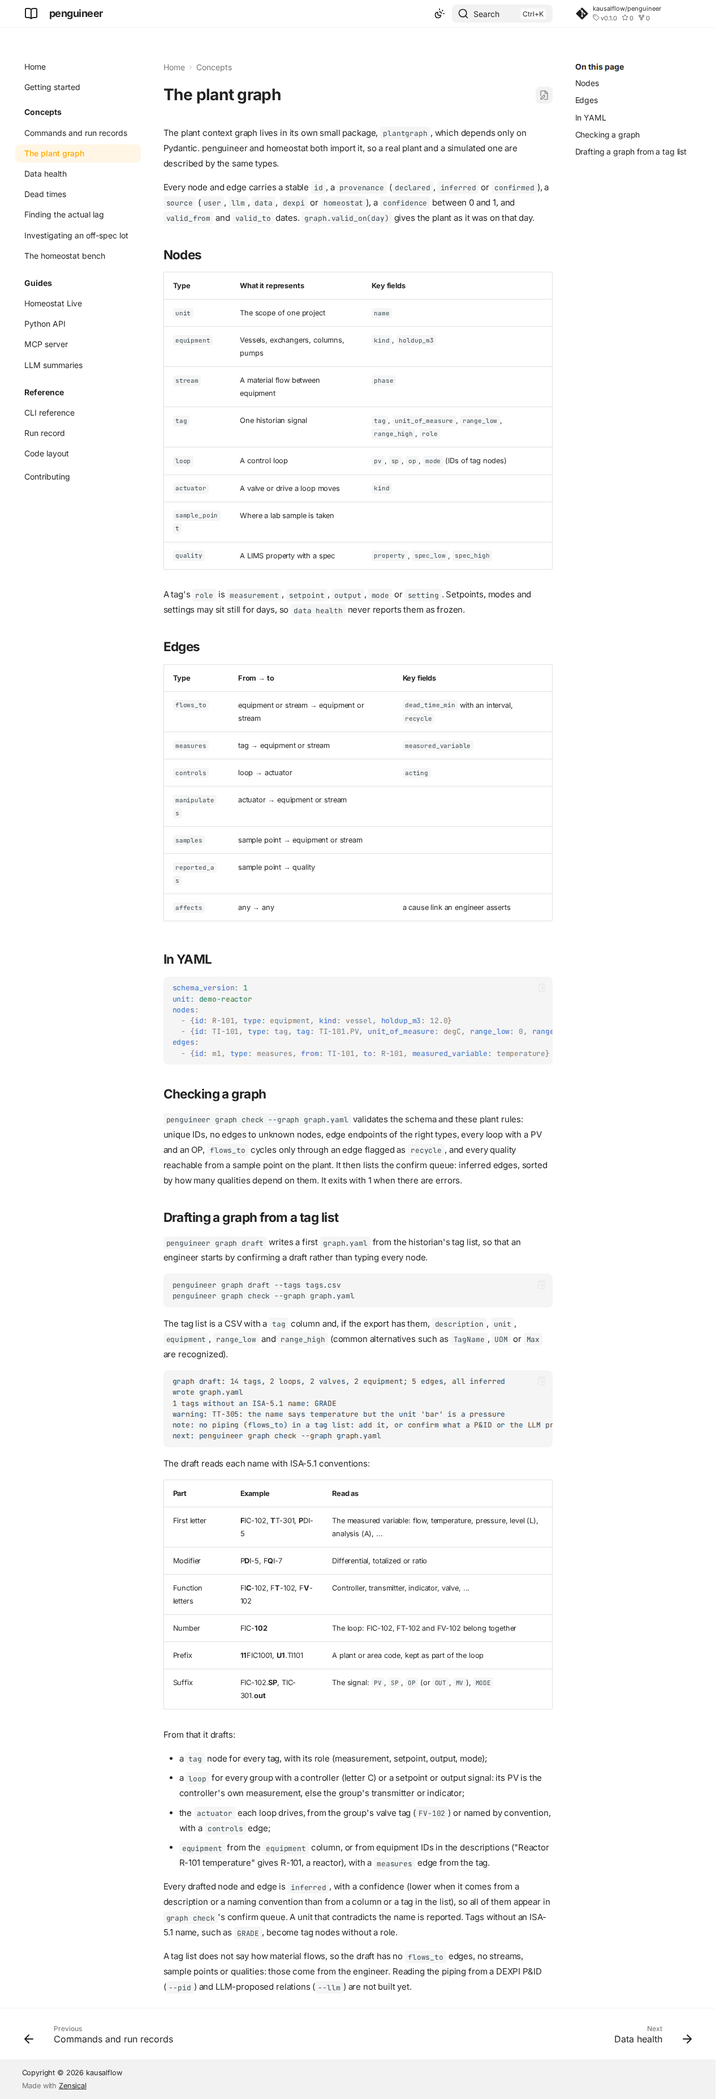
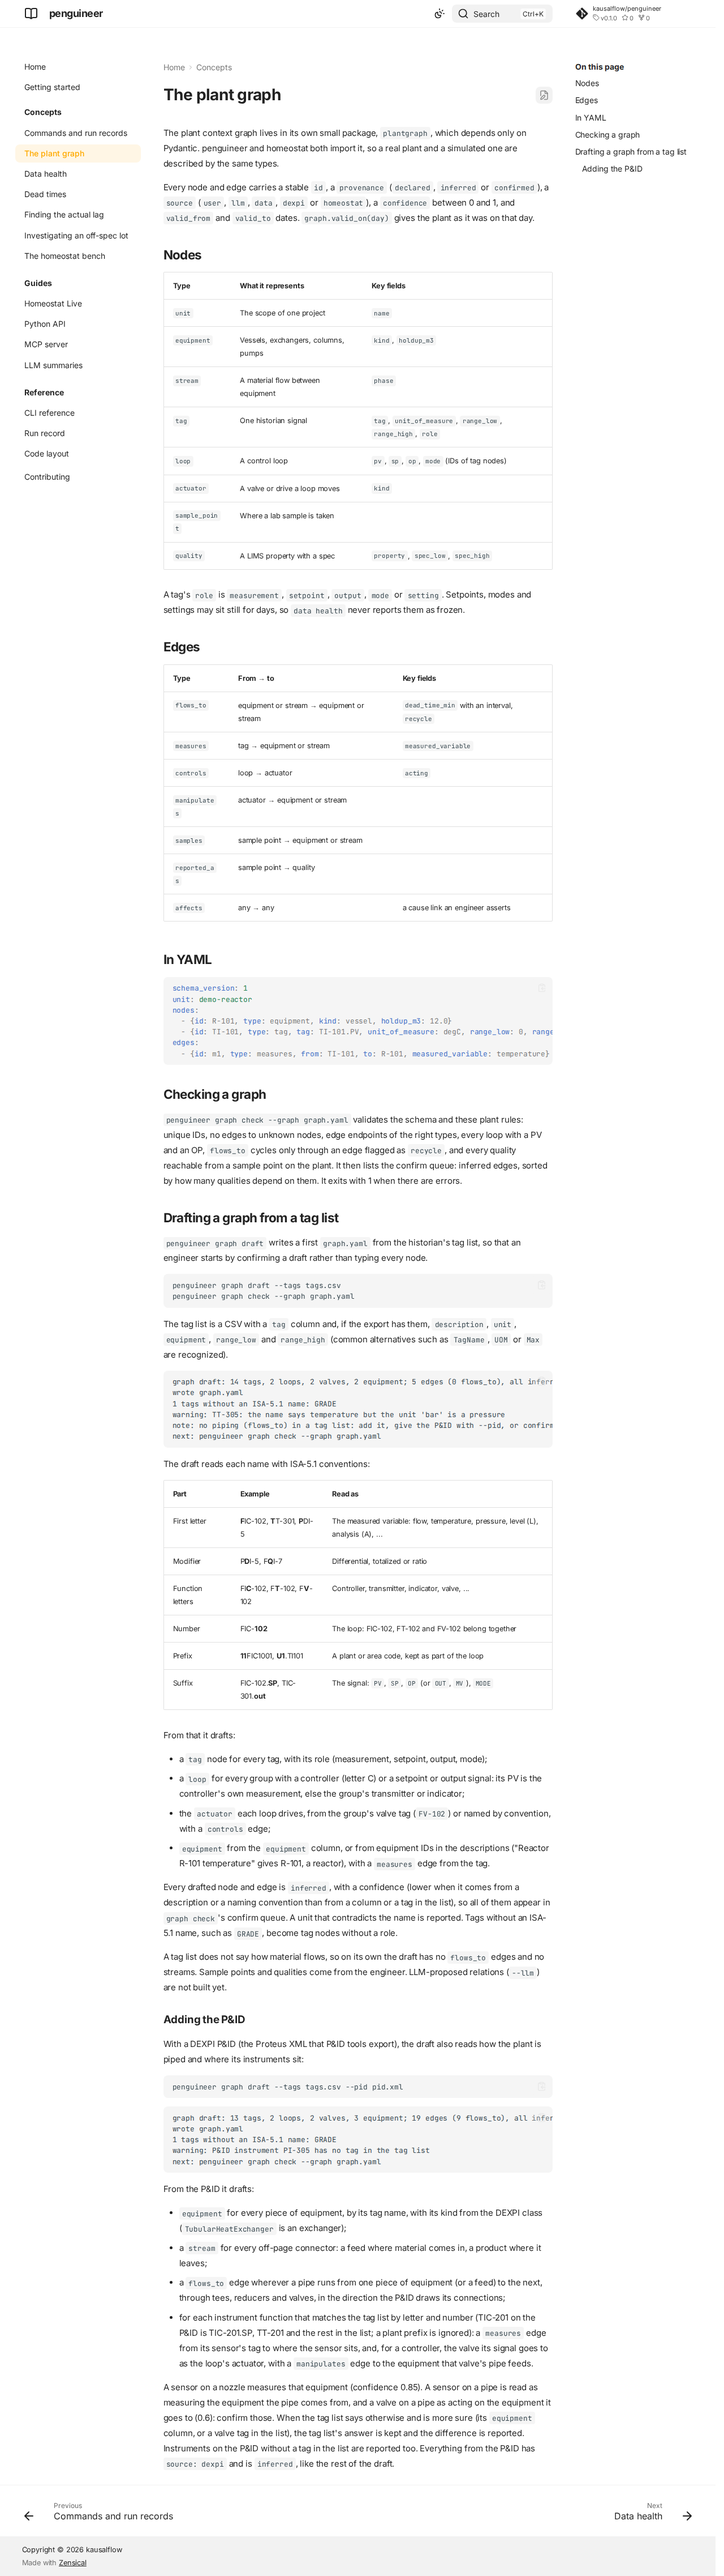
Deploying to gh-pages from @ kausalflow/penguineer@e16a3aa648be40f98436e557015934e2be6508c0 🚀

diff --git a/concepts/plant-graph/index.html b/concepts/plant-graph/index.html
@@ -507,6 +507,23 @@
     </span>
   </a>
   
+    <nav class="md-nav" aria-label="Drafting a graph from a tag list">
+      <ul class="md-nav__list">
+        
+          <li class="md-nav__item">
+  <a href="#adding-the-pid" class="md-nav__link">
+    <span class="md-ellipsis">
+      <span class="md-typeset">
+        Adding the P&amp;ID
+      </span>
+    </span>
+  </a>
+  
+</li>
+        
+      </ul>
+    </nav>
+  
 </li>
       
     </ul>
@@ -1105,6 +1122,23 @@
     </span>
   </a>
   
+    <nav class="md-nav" aria-label="Drafting a graph from a tag list">
+      <ul class="md-nav__list">
+        
+          <li class="md-nav__item">
+  <a href="#adding-the-pid" class="md-nav__link">
+    <span class="md-ellipsis">
+      <span class="md-typeset">
+        Adding the P&amp;ID
+      </span>
+    </span>
+  </a>
+  
+</li>
+        
+      </ul>
+    </nav>
+  
 </li>
       
     </ul>
@@ -1324,11 +1358,11 @@ engineer starts by confirming a draft rather than typing every node.</p>
 <p>The tag list is a CSV with a <code>tag</code> column and, if the export has them, <code>description</code>, <code>unit</code>,
 <code>equipment</code>, <code>range_low</code> and <code>range_high</code> (common alternatives such as <code>TagName</code>, <code>UOM</code> or <code>Max</code>
 are recognized).</p>
-<div class="language-text highlight"><pre><span></span><code><span id="__span-2-1"><a id="__codelineno-2-1" name="__codelineno-2-1" href="#__codelineno-2-1"></a>graph draft: 14 tags, 2 loops, 2 valves, 2 equipment; 5 edges, all inferred
+<div class="language-text highlight"><pre><span></span><code><span id="__span-2-1"><a id="__codelineno-2-1" name="__codelineno-2-1" href="#__codelineno-2-1"></a>graph draft: 14 tags, 2 loops, 2 valves, 2 equipment; 5 edges (0 flows_to), all inferred
 </span><span id="__span-2-2"><a id="__codelineno-2-2" name="__codelineno-2-2" href="#__codelineno-2-2"></a>wrote graph.yaml
 </span><span id="__span-2-3"><a id="__codelineno-2-3" name="__codelineno-2-3" href="#__codelineno-2-3"></a>1 tags without an ISA-5.1 name: GRADE
 </span><span id="__span-2-4"><a id="__codelineno-2-4" name="__codelineno-2-4" href="#__codelineno-2-4"></a>warning: TT-305: the name says temperature but the unit 'bar' is a pressure
-</span><span id="__span-2-5"><a id="__codelineno-2-5" name="__codelineno-2-5" href="#__codelineno-2-5"></a>note: no piping (flows_to) in a tag list: add it, or confirm what a P&amp;ID or the LLM proposes
+</span><span id="__span-2-5"><a id="__codelineno-2-5" name="__codelineno-2-5" href="#__codelineno-2-5"></a>note: no piping (flows_to) in a tag list: add it, give the P&amp;ID with --pid, or confirm what the LLM proposes
 </span><span id="__span-2-6"><a id="__codelineno-2-6" name="__codelineno-2-6" href="#__codelineno-2-6"></a>next: penguineer graph check --graph graph.yaml
 </span></code></pre></div>
 <p>The draft reads each name with ISA-5.1 conventions:</p>
@@ -1387,9 +1421,40 @@ are recognized).</p>
 description or a naming convention than from a column or a tag in the list), so all of them
 appear in <code>graph check</code>'s confirm queue. A unit that contradicts the name is reported. Tags
 without an ISA-5.1 name, such as <code>GRADE</code>, become tag nodes without a role.</p>
-<p>A tag list does not say how material flows, so the draft has no <code>flows_to</code> edges, no streams,
-sample points or qualities: those come from the engineer. Reading the piping from a DEXPI P&amp;ID
-(<code>--pid</code>) and LLM-proposed relations (<code>--llm</code>) are not built yet.</p>
+<p>A tag list does not say how material flows, so on its own the draft has no <code>flows_to</code> edges and
+no streams. Sample points and qualities come from the engineer. LLM-proposed relations (<code>--llm</code>)
+are not built yet.</p>
+<h3 id="adding-the-pid">Adding the P&amp;ID<a class="headerlink" href="#adding-the-pid" title="Permanent link">&para;</a></h3>
+<p>With a DEXPI P&amp;ID (the Proteus XML that P&amp;ID tools export), the draft also reads how the plant
+is piped and where its instruments sit:</p>
+<div class="language-bash highlight"><pre><span></span><code><span id="__span-3-1"><a id="__codelineno-3-1" name="__codelineno-3-1" href="#__codelineno-3-1"></a>penguineer<span class="w"> </span>graph<span class="w"> </span>draft<span class="w"> </span>--tags<span class="w"> </span>tags.csv<span class="w"> </span>--pid<span class="w"> </span>pid.xml
+</span></code></pre></div>
+<div class="language-text highlight"><pre><span></span><code><span id="__span-4-1"><a id="__codelineno-4-1" name="__codelineno-4-1" href="#__codelineno-4-1"></a>graph draft: 13 tags, 2 loops, 2 valves, 3 equipment; 19 edges (9 flows_to), all inferred
+</span><span id="__span-4-2"><a id="__codelineno-4-2" name="__codelineno-4-2" href="#__codelineno-4-2"></a>wrote graph.yaml
+</span><span id="__span-4-3"><a id="__codelineno-4-3" name="__codelineno-4-3" href="#__codelineno-4-3"></a>1 tags without an ISA-5.1 name: GRADE
+</span><span id="__span-4-4"><a id="__codelineno-4-4" name="__codelineno-4-4" href="#__codelineno-4-4"></a>warning: P&amp;ID instrument PI-305 has no tag in the tag list
+</span><span id="__span-4-5"><a id="__codelineno-4-5" name="__codelineno-4-5" href="#__codelineno-4-5"></a>next: penguineer graph check --graph graph.yaml
+</span></code></pre></div>
+<p>From the P&amp;ID it drafts:</p>
+<ul>
+<li><code>equipment</code> for every piece of equipment, by its tag name, with its kind from the DEXPI class
+  (<code>TubularHeatExchanger</code> is an exchanger);</li>
+<li>a <code>stream</code> for every off-page connector: a feed where material comes in, a product where it
+  leaves;</li>
+<li>a <code>flows_to</code> edge wherever a pipe runs from one piece of equipment (or a feed) to the next,
+  through tees, reducers and valves, in the direction the P&amp;ID draws its connections;</li>
+<li>for each instrument function that matches the tag list by letter and number (TIC-201 on the
+  P&amp;ID is TIC-201.SP, TT-201 and the rest in the list; a plant prefix is ignored): a <code>measures</code>
+  edge from its sensor's tag to where the sensor sits, and, for a controller, the valve its signal
+  goes to as the loop's actuator, with a <code>manipulates</code> edge to the equipment that valve's pipe
+  feeds.</li>
+</ul>
+<p>A sensor on a nozzle measures that equipment (confidence 0.85). A sensor on a pipe is read as
+measuring the equipment the pipe comes from, and a valve on a pipe as acting on the equipment it
+goes to (0.6): confirm those. When the tag list says otherwise and is more sure (its <code>equipment</code>
+column, or a valve tag in the list), the tag list's answer is kept and the difference is
+reported. Instruments on the P&amp;ID without a tag in the list are reported too. Everything from the
+P&amp;ID has <code>source: dexpi</code> and is <code>inferred</code>, like the rest of the draft.</p>
 
 
 

diff --git a/reference/code-layout/index.html b/reference/code-layout/index.html
@@ -1040,13 +1040,13 @@
 </span><span id="__span-0-3"><a id="__codelineno-0-3" name="__codelineno-0-3" href="#__codelineno-0-3"></a>  core/                   command registry, RunContext, run records, errors
 </span><span id="__span-0-4"><a id="__codelineno-0-4" name="__codelineno-0-4" href="#__codelineno-0-4"></a>  cli/                    the Typer app generated from the registry, the CLI reference renderer
 </span><span id="__span-0-5"><a id="__codelineno-0-5" name="__codelineno-0-5" href="#__codelineno-0-5"></a>  commands/               one module per command: Params, Result, run()
-</span><span id="__span-0-6"><a id="__codelineno-0-6" name="__codelineno-0-6" href="#__codelineno-0-6"></a>  io/                     historian, LIMS, plant graph, Homeostat Live and scenario-bundle readers
+</span><span id="__span-0-6"><a id="__codelineno-0-6" name="__codelineno-0-6" href="#__codelineno-0-6"></a>  io/                     historian, LIMS, plant graph, DEXPI P&amp;ID, Homeostat Live and scenario-bundle readers
 </span><span id="__span-0-7"><a id="__codelineno-0-7" name="__codelineno-0-7" href="#__codelineno-0-7"></a>  engines/                deterministic engines: data health, dead times, alignment, tests, investigate,
 </span><span id="__span-0-8"><a id="__codelineno-0-8" name="__codelineno-0-8" href="#__codelineno-0-8"></a>                          and the fitted calibration (calibration.json)
 </span><span id="__span-0-9"><a id="__codelineno-0-9" name="__codelineno-0-9" href="#__codelineno-0-9"></a>  bench/                  the homeostat bench plant and its faults, bundle export, scoring
 </span><span id="__span-0-10"><a id="__codelineno-0-10" name="__codelineno-0-10" href="#__codelineno-0-10"></a>  llm/                    optional LLM providers, response cache, versioned prompts
 </span><span id="__span-0-11"><a id="__codelineno-0-11" name="__codelineno-0-11" href="#__codelineno-0-11"></a>  report/                 report models, grounded summary, evidence plots, HTML and Markdown templates
-</span><span id="__span-0-12"><a id="__codelineno-0-12" name="__codelineno-0-12" href="#__codelineno-0-12"></a>  graph/                  graph check and the rule-based graph draft
+</span><span id="__span-0-12"><a id="__codelineno-0-12" name="__codelineno-0-12" href="#__codelineno-0-12"></a>  graph/                  graph check and graph draft (tag list and P&amp;ID)
 </span><span id="__span-0-13"><a id="__codelineno-0-13" name="__codelineno-0-13" href="#__codelineno-0-13"></a>tests/                    unit, CLI, round-trip property, schema snapshot and Homeostat Live tests
 </span><span id="__span-0-14"><a id="__codelineno-0-14" name="__codelineno-0-14" href="#__codelineno-0-14"></a>examples/demo/            a small plant with injected data faults
 </span><span id="__span-0-15"><a id="__codelineno-0-15" name="__codelineno-0-15" href="#__codelineno-0-15"></a>examples/offspec/         a small plant with an off-spec lot and a known root cause

diff --git a/index.html b/index.html
@@ -1054,7 +1054,7 @@
 <p><a href="https://github.com/kausalflow/alchemist">Alchemist</a> imports penguineer as a library and adds the UI, runners, project management, the data catalog, staging and sealing on top. penguineer has none of those itself.</p>
 <div class="admonition note">
 <p class="admonition-title">Status</p>
-<p>This is an early release. <code>init</code>, <code>data health</code>, <code>graph check</code>, <code>graph draft</code>, <code>graph lags</code>, <code>lag</code>, <code>investigate</code>, <code>bench homeostat</code> and <code>mcp</code> work. <code>graph draft</code> reads tag names; its DEXPI import (<code>--pid</code>) is not built yet and exits with code 4 ("not implemented yet").</p>
+<p>This is an early release. <code>init</code>, <code>data health</code>, <code>graph check</code>, <code>graph draft</code>, <code>graph lags</code>, <code>lag</code>, <code>investigate</code>, <code>bench homeostat</code> and <code>mcp</code> work. <code>graph draft</code> reads tag names and DEXPI P&IDs; its LLM-proposed relations (<code>--llm</code>) are not built yet.</p>
 </div>
 <h2 id="where-to-go-next">Where to go next<a class="headerlink" href="#where-to-go-next" title="Permanent link">&para;</a></h2>
 <ul>

diff --git a/reference/cli/index.html b/reference/cli/index.html
@@ -1442,7 +1442,7 @@
 <td><code>--pid</code></td>
 <td>existing file</td>
 <td></td>
-<td>Optional DEXPI P&amp;ID</td>
+<td>DEXPI P&amp;ID (Proteus XML): equipment, piping, where sensors and valves sit</td>
 </tr>
 <tr>
 <td><code>--out</code></td>
